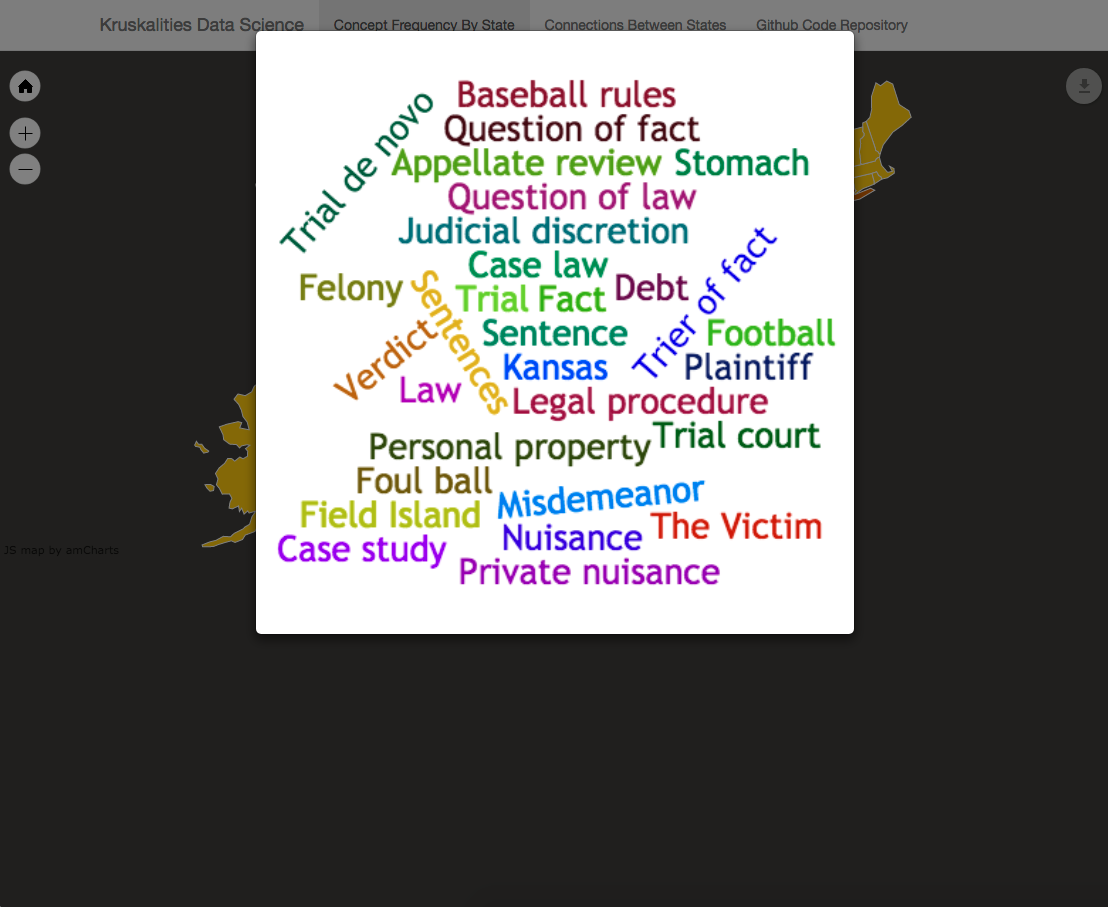
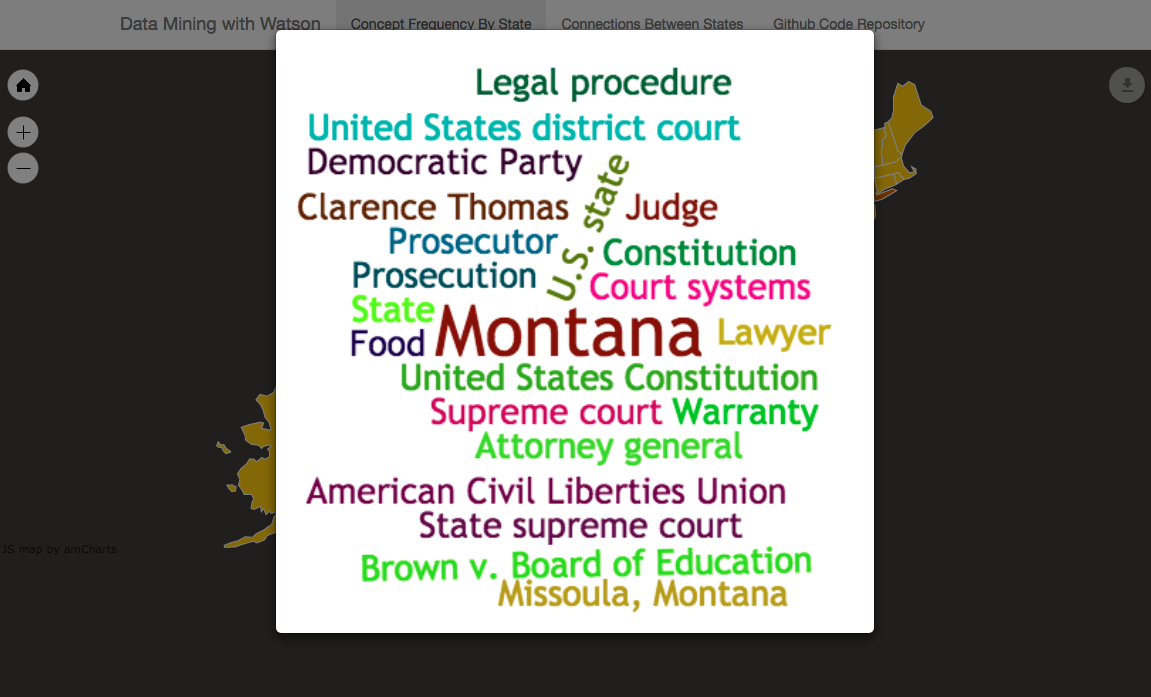
final readme

Changed region(s): [[0.0, 0.0, 1.0, 0.934]]

diff --git a/README.md b/README.md
@@ -9,6 +9,8 @@ Features:
   - Maps US states to other US states based on legislative interactions between the two states
 
 ![](demopics/img1.png?raw=true)
+![](demopics/img2.png?raw=true)
+![](demopics/img3.png?raw=true)
 
 ### Installation
 
